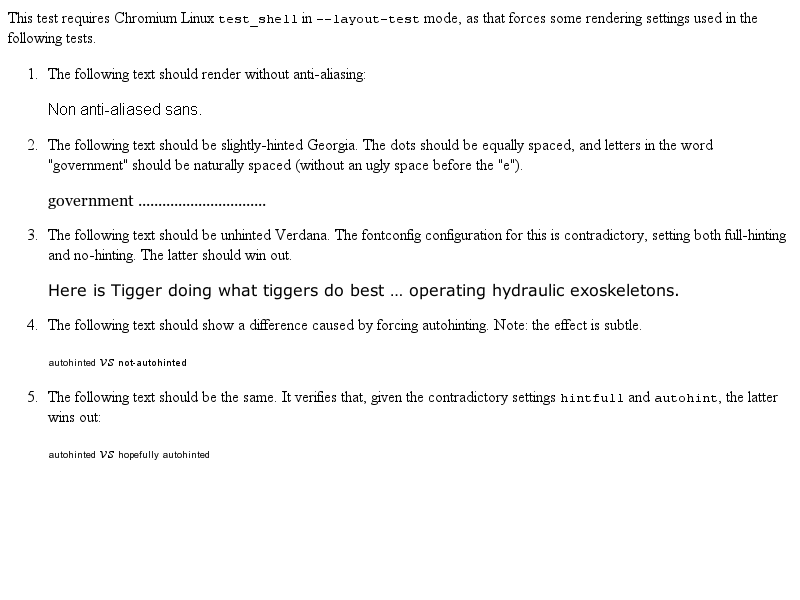
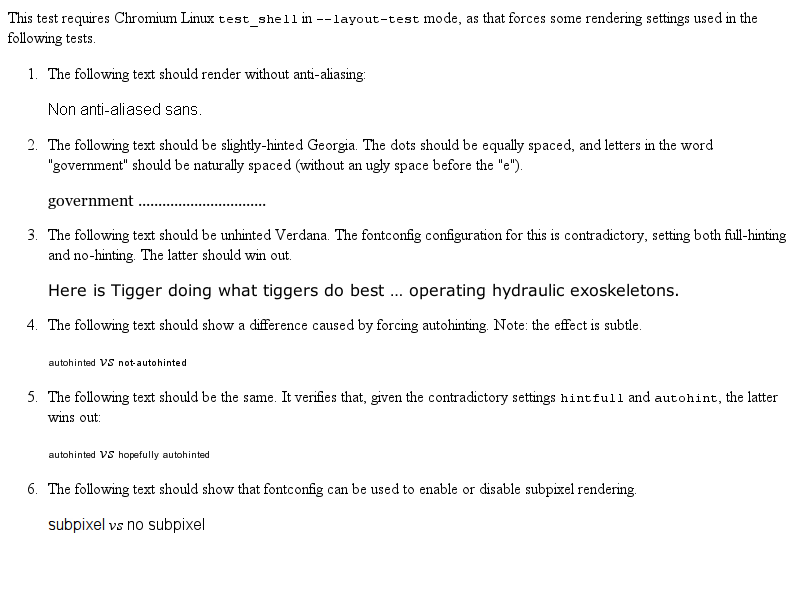
2010-07-20  Daniel Erat  <derat@chromium.org>
Reviewed by Ojan Vafai.

        Subpixel rendering always disabled for Chromium Linux
        https://bugs.webkit.org/show_bug.cgi?id=42220

        Layout test addition to check that Chromium Linux honors fontconfig
        settings enabling or disabling subpixel rendering per-strike.

        * platform/chromium-linux/platform/chromium/fast/text/chromium-linux-fontconfig-renderstyle-expected.checksum:
        * platform/chromium-linux/platform/chromium/fast/text/chromium-linux-fontconfig-renderstyle-expected.png:
        * platform/chromium-linux/platform/chromium/fast/text/chromium-linux-fontconfig-renderstyle-expected.txt:
        * platform/chromium/fast/text/chromium-linux-fontconfig-renderstyle.html:
2010-07-20  Daniel Erat  <derat@chromium.org>

        Reviewed by Ojan Vafai.

        Subpixel rendering always disabled for Chromium Linux
        https://bugs.webkit.org/show_bug.cgi?id=42220

        Explicitly initialize global Chromium Linux isSkiaSubpixelGlyphs
        flag to false for clarity.

        * platform/graphics/chromium/FontPlatformDataLinux.cpp:
2010-07-20  Daniel Erat  <derat@chromium.org>

        Reviewed by Ojan Vafai.

        Subpixel rendering always disabled for Chromium Linux
        https://bugs.webkit.org/show_bug.cgi?id=42220

        Honor Fontconfig subpixel rendering setting on Chromium Linux.

        * src/gtk/WebFontInfo.cpp:
        (WebKit::WebFontInfo::renderStyleForStrike):
[…]

Changed region(s): [[0.0625, 0.81, 0.8125, 0.84], [0.0625, 0.87, 0.25, 0.9]]

diff --git a/platform/chromium/fast/text/chromium-linux-fontconfig-renderstyle.html b/platform/chromium/fast/text/chromium-linux-fontconfig-renderstyle.html
@@ -42,6 +42,13 @@
 
         <p><span style="font-family:AutohintedSerif; font-size:0.6em;">autohinted</span> <i>vs</i> <span style="font-family:FullAndAutoHintedSerif; font-size:0.6em;">hopefully autohinted</span></p>
       </li>
+
+      <li>
+        <p>The following text should show that fontconfig can be used to enable
+        or disable subpixel rendering.</p>
+
+        <p><span style="font-family:SubpixelEnabledArial">subpixel</span> <i>vs</i> <span style="font-family:SubpixelDisabledArial">no subpixel</span></p>
+      </li>
     </ol>
   </body>
 </html>
